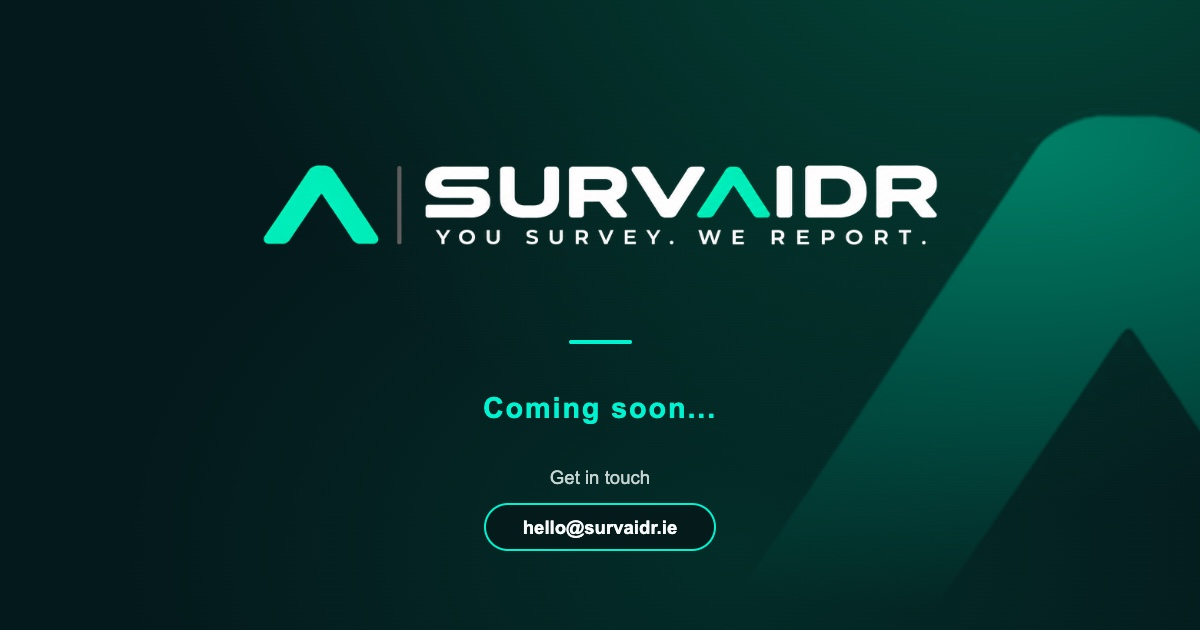
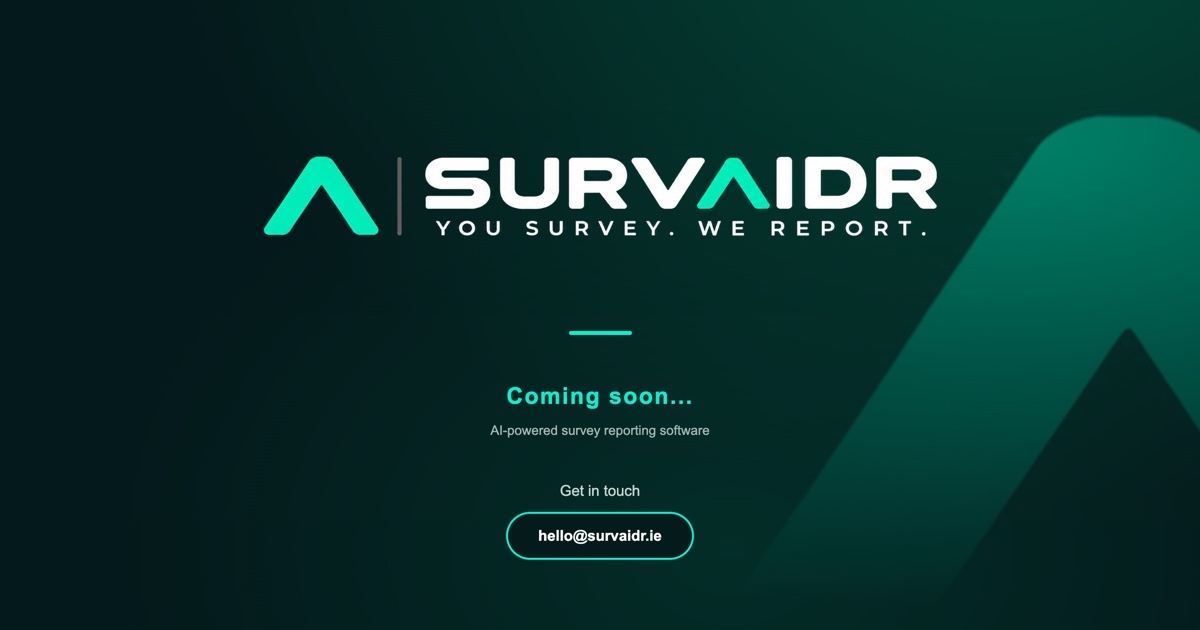
Refine landing page typography and branding assets

diff --git a/index.html b/index.html
@@ -7,6 +7,9 @@
     <meta name="theme-color" content="#041b1b">
     <title>SurvAIdr | AI Property Survey Reporting Software</title>
     <link rel="canonical" href="https://survaidr.ie/">
+    <link rel="icon" type="image/png" sizes="32x32" href="/assets/favicon-32x32.png">
+    <link rel="icon" type="image/png" sizes="48x48" href="/assets/favicon-48x48.png">
+    <link rel="icon" type="image/png" sizes="192x192" href="/assets/favicon-192x192.png">
     <meta property="og:type" content="website">
     <meta property="og:title" content="SurvAIdr | AI Property Survey Reporting Software">
     <meta property="og:description" content="SurvAIdr is AI property survey reporting software for Irish property surveyors. You survey. We report. Coming soon.">
@@ -83,7 +86,7 @@
       .status {
         margin: clamp(48px, 7.35vw, 118px) 0 0;
         color: var(--accent);
-        font-size: clamp(25px, 2.4vw, 36px);
+        font-size: clamp(20px, 1.92vw, 28.8px);
         font-weight: 700;
         line-height: 1.15;
         letter-spacing: 0.065em;
@@ -103,10 +106,18 @@
         margin-top: clamp(36px, 3.5vw, 56px);
       }
 
+      .description {
+        margin: 12px 0 0;
+        color: #a4b8b3;
+        font-size: clamp(13px, 1.1vw, 17px);
+        line-height: 1.5;
+        text-wrap: balance;
+      }
+
       .contact h2 {
-        margin: 0 0 14px;
+        margin: 0 0 11.2px;
         color: #c5d4d1;
-        font-size: clamp(17px, 1.55vw, 25px);
+        font-size: clamp(13.6px, 1.24vw, 20px);
         font-weight: 400;
         line-height: 1.2;
       }
@@ -116,12 +127,12 @@
         align-items: center;
         justify-content: center;
         min-height: 48px;
-        padding: clamp(9px, 0.85vw, 14px) clamp(28px, 3.1vw, 50px);
+        padding: clamp(7.2px, 0.68vw, 11.2px) clamp(22.4px, 2.48vw, 40px);
         border: 2px solid var(--accent);
         border-radius: 999px;
         background: #041b1b;
         color: inherit;
-        font-size: clamp(17px, 1.55vw, 25px);
+        font-size: clamp(13.6px, 1.24vw, 20px);
         font-weight: 700;
         line-height: 1.15;
         text-decoration: none;
@@ -156,6 +167,7 @@
         >
       </h1>
       <p class="status">Coming soon...</p>
+      <p class="description">AI-powered survey reporting software</p>
       <section class="contact" aria-labelledby="contact-heading">
         <h2 id="contact-heading">Get in touch</h2>
         <a href="mailto:hello@survaidr.ie">hello@survaidr.ie</a>
